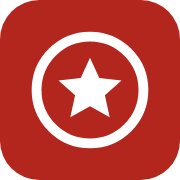
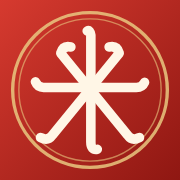
图标改为"米"字：直线交叉、顶端轻微弯曲
用竖线、横线和两条斜线交叉组成"米"，每条线端带轻微弯钩，红底金圈。
更新 icon.svg、icon-192/512、maskable（去掉金圈、留出安全区）、apple-touch-icon。
图标在 sw.js 缓存里，ASSET_VER / UPGRADE_VER / CACHE 一起升到 35。

Claude-Session: https://claude.ai/code/session_01Jw57Dz5XjpBVGBNXtoT71K

diff --git a/index.html b/index.html
@@ -18,7 +18,7 @@
 <meta name="apple-mobile-web-app-title" content="米其林名录">
 <meta name="apple-mobile-web-app-status-bar-style" content="default">
 <!-- ?v= must match ASSET_VER in sw.js: a new page must never run with an old cached script -->
-<link rel="stylesheet" href="upgrade.css?v=34">
+<link rel="stylesheet" href="upgrade.css?v=35">
 <link rel="manifest" href="manifest.webmanifest">
 <link rel="icon" href="icon.svg" type="image/svg+xml">
 <link rel="icon" href="icon-192.png" sizes="192x192" type="image/png">
@@ -442,26 +442,26 @@ dialog::backdrop{background:var(--shade)}
 <div id="inappBar" hidden><span>在微信等 App 里无法添加到主屏幕，也可能打不开地图。</span><button type="button" id="inappHow">怎么办</button><button type="button" id="inappX" aria-label="关闭">×</button></div>
 <div id="toast" role="status" aria-live="polite"></div>
 
-<script src="i18n.js?v=34"></script>
-<script src="city-names.js?v=34"></script>
-<script src="my-navigation.js?v=34"></script>
-<script src="search-aliases.js?v=34"></script>
-<script src="guide-core.js?v=34"></script>
-<script src="address-localization.js?v=34"></script>
-<script src="restaurant-intro.js?v=34"></script>
-<script src="upgrade.js?v=34"></script>
-<script src="passport-share.js?v=34"></script>
-<script src="meal-photos.js?v=34"></script>
-<script src="trip-route.js?v=34"></script>
-<script src="cloud-sync.js?v=34"></script>
-<script src="guide-updates.js?v=34"></script>
+<script src="i18n.js?v=35"></script>
+<script src="city-names.js?v=35"></script>
+<script src="my-navigation.js?v=35"></script>
+<script src="search-aliases.js?v=35"></script>
+<script src="guide-core.js?v=35"></script>
+<script src="address-localization.js?v=35"></script>
+<script src="restaurant-intro.js?v=35"></script>
+<script src="upgrade.js?v=35"></script>
+<script src="passport-share.js?v=35"></script>
+<script src="meal-photos.js?v=35"></script>
+<script src="trip-route.js?v=35"></script>
+<script src="cloud-sync.js?v=35"></script>
+<script src="guide-updates.js?v=35"></script>
 <script>
 const CONT=["亚洲","欧洲","北美洲","南美洲","大洋洲"];
 const LVN=["三星","二星","一星","必比登","入选"];
 const LVC=["#7a0d0a","#b3261e","#e0574d","#c98a00","#9a9390"];
 const PIN=["中国内地","中国香港","中国澳门","中国台湾"];
 const REPO="https://github.com/SparrowCinema/michelin-guide";
-const ASSET_VER="34"; // = ?v= on the asset tags above, UPGRADE_VER in upgrade.js and ASSET_VER in sw.js
+const ASSET_VER="35"; // = ?v= on the asset tags above, UPGRADE_VER in upgrade.js and ASSET_VER in sw.js
 const DATA_VER="20261103-2"; // bump whenever data.json changes so browsers skip their cached copy
 const $=id=>document.getElementById(id);
 const esc=s=>String(s).replace(/[&<>"]/g,ch=>({"&":"&amp;","<":"&lt;",">":"&gt;",'"':"&quot;"}[ch]));

diff --git a/sw.js b/sw.js
@@ -1,8 +1,8 @@
 // Offline support: the page and its data are cached so the directory opens without a network.
 // Map tiles and the map library come from other sites and are not cached here.
-const CACHE = "mg-v34";
+const CACHE = "mg-v35";
 // Bump together with CACHE and the ?v= on upgrade.css / *.js in index.html.
-const ASSET_VER = "34";
+const ASSET_VER = "35";
 const SHELL = ["./", "index.html", "upgrade.css?v=" + ASSET_VER, "city-names.js?v=" + ASSET_VER, "my-navigation.js?v=" + ASSET_VER, "i18n.js?v=" + ASSET_VER, "search-aliases.js?v=" + ASSET_VER, "guide-core.js?v=" + ASSET_VER, "upgrade.js?v=" + ASSET_VER, "passport-share.js?v=" + ASSET_VER, "restaurant-intro.js?v=" + ASSET_VER, "meal-photos.js?v=" + ASSET_VER, "trip-route.js?v=" + ASSET_VER, "cloud-sync.js?v=" + ASSET_VER, "guide-updates.js?v=" + ASSET_VER, "assets/passport-share-art.webp", "prices.json", "address-localization.js?v=" + ASSET_VER, "manifest.webmanifest", "icon.svg", "icon-192.png", "icon-512.png", "icon-maskable.png", "apple-touch-icon.png"];
 self.addEventListener("install", e => {
   // cache:"reload" skips the browser HTTP cache, which can still hold the previous release for ~10 minutes

diff --git a/upgrade.js b/upgrade.js
@@ -1,6 +1,6 @@
 /* Travel, details, passport and snapshot views. Existing restaurant IDs remain unchanged. */
 // Must equal ASSET_VER in index.html and sw.js; index.html reloads fresh files when they disagree.
-const UPGRADE_VER="34";
+const UPGRADE_VER="35";
 let PERSONAL={version:2,trips:[],records:Object.create(null)},PRICE_DB={items:{}},upSelected='',upPickU='',upLoaded=false,upReadError=false;
 function upSave(next){
   if(upReadError){toast('已有旅行存储无法读取，已阻止覆盖。请先导出原始备份再恢复。');return false;}
